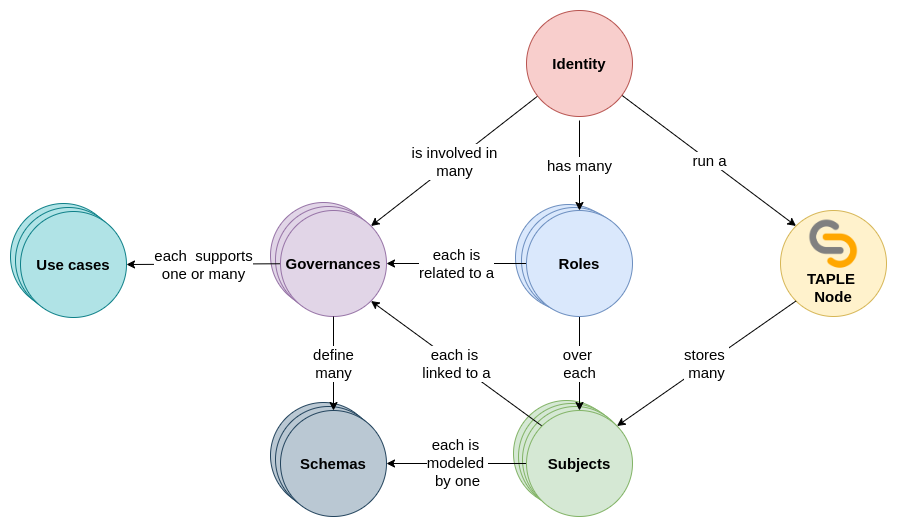
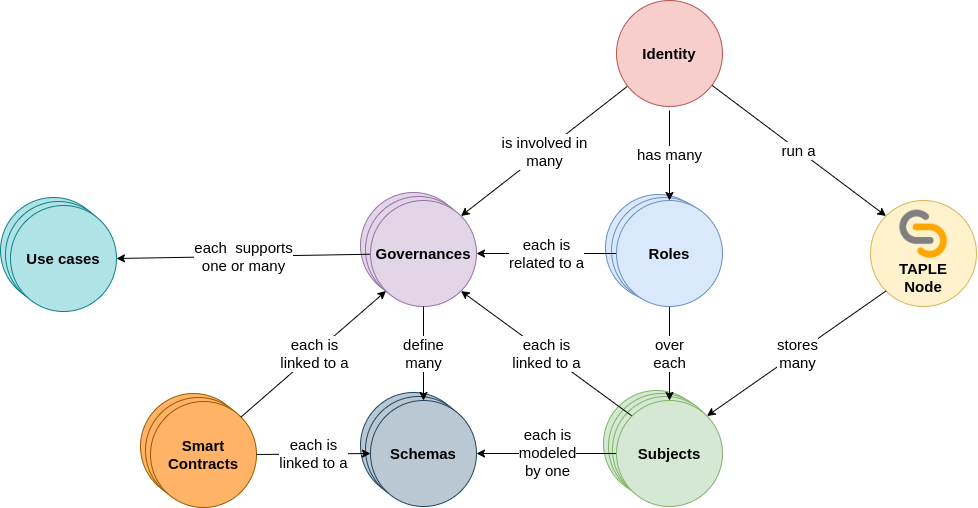
fix(TAP-1455): Smart contracts added to governance section

diff --git a/docs/technology/governance.md b/docs/technology/governance.md
@@ -11,12 +11,6 @@ Governance is responsible for defining: 
 - the permissions that each participant has to operate in the network;
 - and the roles that they will have over each subject.  
 
-:::caution Important
-
-TAPLE governance is under active development. The current release does not include all planned functionality, for example, the definition of rules based on namespaces of interest. Future versions will include these capabilities.
-
-:::
-
 ## Subjects, nodes and governances
 
 Governance defines the rules to be followed in a use case. However, a holder of a TAPLE node is not limited to participate in a single use case. For this reason, the following hierarchy of relationships appears:
@@ -42,7 +36,10 @@ These are the persons, entities or organizations that participate in the governa
 Schemas are the data structures that model the information stored in the subjects. Within a governance, different schemas can be defined to support different use cases. When a subject is created, it defines which governance it is associated with and which schema it will use. 
 
 ### Policies
-Policies are the rules by which we define permissions and roles, i.e. who is allowed to do what things in a TAPLE network. 
+Policies are the rules by which we define permissions and roles, i.e. who is allowed to do what things in a TAPLE network.
+
+### Smart Contracts
+Un [smart contract](./smart-contracts.md) es un programa autoejecutable diseñado para automatizar, verificar y emitir eventos de actulización de sujetos de forma segura y transparente sin la necesidad de intermediarios.
 
 :::caution
 
